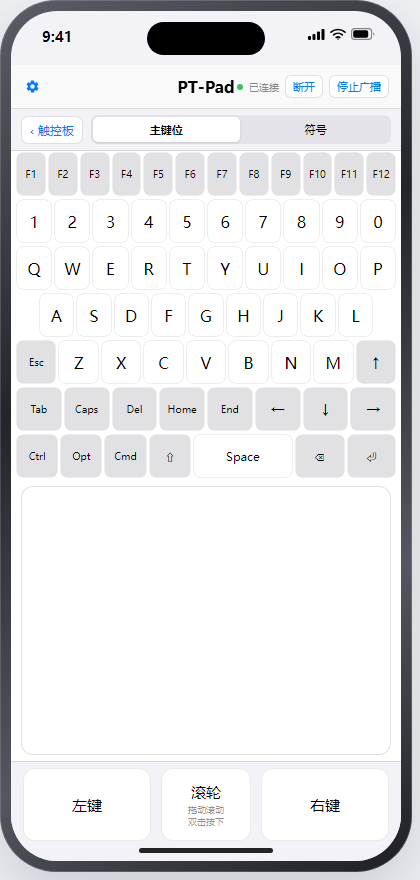
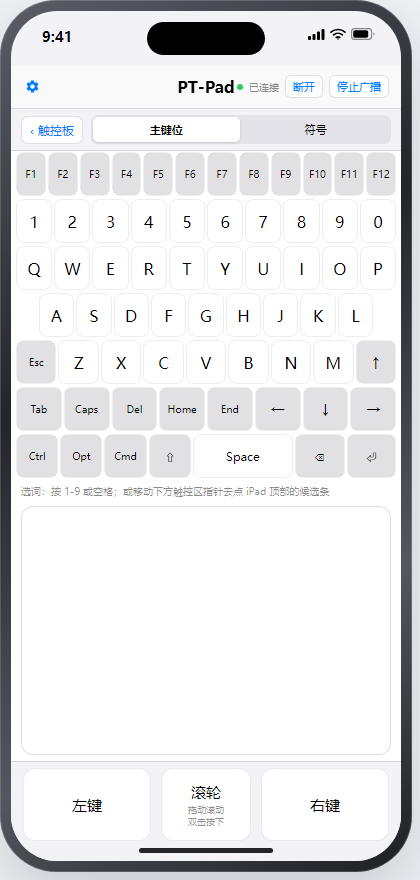
UI: IME candidate hint + hold 0.09s; disconnect shows switch-device guide

Changed region(s): [[0.031, 0.5523, 0.8048, 0.583]]

diff --git a/preview/ui-preview.html b/preview/ui-preview.html
@@ -260,6 +260,8 @@ input[type=range] { width:100%; accent-color:var(--accent); margin:10px 0 2px; c
 .kb-rows.compact .kb-key.arrow { font-size:14px; }
 /* 键区再往上挪：顶部内边距 6px → 2px，工具条下方已无空状态条 */
 .kb-rows.top { padding:2px 6px 0; }
+/* 极简选词提示：单行、次级色，不挤占键区 */
+.kb-imehint { font-size:10px; color:var(--ios-2); line-height:1.4; padding:2px 10px 4px; }
 .kb-minipad {
   flex:1 1 auto; min-height:0; box-sizing:border-box;
   padding:4px 10px 6px;
@@ -383,20 +385,22 @@ body.shot .phone { margin:0; }
             <tr><td>12</td><td>设置：指针速度 0.4~3.5，默认 1.4×（连接后从这里调）</td><td>ContentView.swift:201-215</td></tr>
             <tr><td>13</td><td>设置：滚动速度 0.3~3.0，默认 1.0× / 自然滚动开关（默认关 = 上滑滚轮下滑，连接后从这里调）</td><td>ContentView.swift:217-232</td></tr>
             <tr><td>14</td><td>设置：按键说明五行（新增全键盘、组合键两行）</td><td>ContentView.swift:234-240</td></tr>
-            <tr><td>15</td><td>设置：关于四行（不再回显整机名）+ 底部三步改名说明</td><td>ContentView.swift:254-264</td></tr>
-            <tr><td>16</td><td>顶部「断开」按钮（仅已连接显示）：移除 GATT 服务并停止广播，可重新广播切换到 Windows / Mac</td><td>ContentView.swift:59</td></tr>
+            <tr><td>15</td><td>设置：切换设备分组（iPad 自动重连 / 切 Windows / 切 Android / 本 App）+ 关于四行（不再回显整机名）+ 底部三步改名说明</td><td>ContentView.swift:255-278</td></tr>
+            <tr><td>16</td><td>顶部「断开」按钮（仅已连接显示）：移除 GATT 服务并停止广播；断开后弹出「切换设备」指引（配对信息在主机侧，iPad 会自动回连）</td><td>ContentView.swift:513-525</td></tr>
             <tr><td>17</td><td>设置：「实验功能 · 全键盘与回桌面」分组（键鼠复合开关、三指上滑、全键盘、输入报告字节数、风险与回退说明）</td><td>ContentView.swift:242-252</td></tr>
             <tr><td>18</td><td>已连接触控区顶部切换栏：「触控板模式」+ 蓝色主按钮「全键盘」；键盘未就绪时多一行橙色提示</td><td>ContentView.swift:292-331</td></tr>
             <tr><td>19</td><td>全键盘顶部工具条：「‹ 触控板」返回按钮 + 主键位 / 符号 两页分段控件（功能页已并入主键位）+ 粘滞生效时右侧的极短徽标</td><td>KeyboardView.swift:242-282</td></tr>
             <tr><td>20</td><td>粘滞状态改为工具条内短徽标（⌃ ⇧ ⌥ ⌘ + 清除），不再单独占一行；默认完全不显示，Ctrl / Opt / Cmd / Shift 仍为一次性粘滞</td><td>KeyboardView.swift:262-276<br>KeyboardView.swift:287-303</td></tr>
             <tr><td>21</td><td>键帽区：主键位 7 行（F1~F12 + 数字 + QWERTY 三行 + 导航/方向键 + 控制行）、符号页 5 行，两页统一 42pt 键帽</td><td>KeyboardView.swift:127-190</td></tr>
-            <tr><td>22</td><td>HID 键码解析与发送：US ANSI 布局，符号自带 Shift；一次按键 = 按下 0.06 秒 + 连发空帧松键</td><td>KeyboardView.swift:11-75<br>HIDPeripheral.swift:552-584</td></tr>
+            <tr><td>22</td><td>HID 键码解析与发送：US ANSI 布局，符号自带 Shift；一次按键 = 按下 0.09 秒（延长以兼容 iPad 中文输入法选词）+ 连发空帧松键</td><td>KeyboardView.swift:11-75<br>HIDPeripheral.swift:552-584</td></tr>
             <tr><td>23</td><td>键盘不可用橙色警告（键鼠复合关闭 / Boot Protocol / 未订阅 2A4D 时显示，属于条件错误提示，予以保留）</td><td>KeyboardView.swift:305-319</td></tr>
             <tr><td>24</td><td>主键位第 5 行：Esc 贴 Z 左侧（键区左边缘）、↑ 贴 M 右侧（键区右边缘）；第 6 行剩 Tab / Caps / Del / Home / End / ← / ↓ / →</td><td>KeyboardView.swift:164-190</td></tr>
             <tr><td>25</td><td>键区整体上移；下方小触控区吃掉键区以下全部空间、紧贴键区，复用 TrackpadSurface（compact）且不显示提示文字</td><td>KeyboardView.swift:205-228<br>KeyboardView.swift:232-238<br>TrackpadSurface.swift:72-88</td></tr>
             <tr><td>26</td><td>底部三键高度 116pt → 76pt；键盘页上下四处说明文字删除（粘滞长句、小触控区标题、触控区内提示、底部 footer）</td><td>ContentView.swift:363-377<br>KeyboardView.swift:205-228<br>TrackpadSurface.swift:72-88</td></tr>
             <tr><td>27</td><td>键区再往上挪一点点：删掉工具条下方 24pt 空状态条，键区顶部间距 8pt → 2pt，小触控区顶部 6pt → 4pt；省下约 30pt 全部给小触控区，键盘页切页／粘滞时不再有垂直跳动</td><td>KeyboardView.swift:205-228<br>KeyboardView.swift:242-282<br>KeyboardView.swift:232-238</td></tr>
             <tr><td>28</td><td>引导页三张卡片统一显式通栏：状态卡片 / 指针与滚动 / 连接日志各加 maxWidth 无限宽约束；日志内层 VStack、ScrollView 也撑满。初始只有一行短日志时不再缩成窄卡片并居中</td><td>ContentView.swift:120-121<br>ContentView.swift:153<br>ContentView.swift:172-177</td></tr>
+            <tr><td>29</td><td>全键盘页新增极简选词提示（单行、次级色）：按 1-9 或空格选词，或移动下方小触控区指针去点 iPad 顶部候选条；键帽按住时长 60ms → 90ms 以兼容中文输入法组合态</td><td>KeyboardView.swift:244-252<br>HIDPeripheral.swift:579</td></tr>
+            <tr><td>30</td><td>断开后弹「切换设备」指引：要连 Windows / Android 须先在 iPad 蓝牙里「忽略此设备」，否则 iPad 已配对会自动抢连；设置新增「切换设备」分组说明（Android 支持因机型而异，Win+D / F11 回桌面）</td><td>ContentView.swift:76<br>ContentView.swift:513-525<br>ContentView.swift:255-278</td></tr>
           </tbody>
         </table>
       </div>
@@ -724,6 +728,7 @@ body.shot .phone { margin:0; }
         "<div class=\"kb-seg\">" + seg + "</div>" + badge +
       "</div>" + warn +
       "<div class=\"kb-rows top" + (compact ? " compact" : "") + "\">" + rows + "</div>" +
+      "<div class=\"kb-imehint\" data-code=\"KeyboardView.swift:244-252\">选词：按 1-9 或空格；或移动下方触控区指针去点 iPad 顶部的候选条</div>" +
       miniPadHTML() +
       "</div>";
   }
@@ -765,7 +770,15 @@ body.shot .phone { margin:0; }
         row("输入报告", s.compositeDevice ? "12 字节（鼠标 4 + 键盘 8）" : "4 字节（纯鼠标）") +
       "</div>" +
       "<div class=\"form-footer\" data-code=\"ContentView.swift:250-252\">开启后本设备同时声明为鼠标和键盘，全键盘与三指上滑都依赖这个开关。iPad 可能弹出键盘配对验证，也可能拒绝接管整个设备导致鼠标失效。切换开关会自动断开并移除 GATT 服务：请在 iPad 蓝牙里「忽略此设备」，回到主页面点「开始广播」，再重新配对。若指针或点击失效，关掉本开关、同样忽略设备重新配对即可回到纯鼠标，不需要重装 App。Command + H 只对 iPadOS 有效；Windows 显示桌面是 Win + D，macOS 是 F11。</div>" +
-      "<div class=\"sec-head\" data-code=\"ContentView.swift:254\">关于</div>" +
+      "<div class=\"sec-head\" data-code=\"ContentView.swift:255\">切换设备</div>" +
+      "<div class=\"group\" data-code=\"ContentView.swift:255-264\">" +
+        row("iPad 自动重连", "已配对会主动回连") +
+        row("切到 Windows", "iPad 忽略本设备 → 配对 PT-Pad") +
+        row("切到 Android", "同样先忽略本设备再配对") +
+        row("本 App", "断开后点「开始广播」") +
+      "</div>" +
+      "<div class=\"form-footer\" data-code=\"ContentView.swift:255-264\">蓝牙 HID 的配对信息存在主机侧：本 App 作为外设无法远程解除 iPad 的配对。要连 Windows / Android，请先在 iPad 蓝牙里「忽略此设备」，否则它会因已配对自动抢连。Android 对 BLE HID 的支持因机型而异，部分旧机型可能无法识别；Windows 回桌面是 Win + D，本 App 的三指上滑（Command + H）只对 iPadOS 有效。</div>" +
+      "<div class=\"sec-head\" data-code=\"ContentView.swift:266\">关于</div>" +
       "<div class=\"group\" data-code=\"ContentView.swift:254-261\">" +
         row("广播名称", "PT-Pad") +
         row("iPad 显示名称", s.displayName) +
@@ -924,7 +937,12 @@ body.shot .phone { margin:0; }
       s.sticky = 0;
       log("主动断开：停止广播并移除 GATT 服务");
       log("点「开始广播」重建服务后，Windows / Mac 等主机即可发现");
+      log("若 iPad 仍在附近且保留配对，可能自动重连；必要时先在 iPad 蓝牙里忽略此设备");
       render();
+      // 预览复刻真机的「切换设备」指引
+      setTimeout(function () {
+        alert("已断开\n\n要连接到其他设备（Windows / Android）：\n\n1. 在刚断开的设备（如 iPad）蓝牙设置里「忽略此设备」，否则它会因已配对而自动抢连。\n2. 打开目标设备蓝牙，搜索并配对 PT-Pad。\n3. 回到本 App 点右上角「开始广播」。\n\n提示：三指上滑（Command + H）只对 iPadOS 有效；Windows 回桌面用 Win + D，macOS 用 F11。");
+      }, 60);
     }
     else if (act === "toggle") {
       s.naturalScrolling = !s.naturalScrolling;

diff --git a/PocketTrackpad/ContentView.swift b/PocketTrackpad/ContentView.swift
@@ -7,6 +7,8 @@ struct ContentView: View {
     @State private var showSettings = false
     /// true = 全键盘，false = 触控板。只在已连接时生效，断开自动回到触控板。
     @State private var showKeyboard = false
+    /// 断开后弹出「切换设备」指引（配对信息在主机侧，iPad 会自动回连）。
+    @State private var showSwitchHelp = false
 
     /// 主机订阅了 Input Report 才算真正连上；仅广播中不算连接。
     private var connected: Bool { hid.subscribers > 0 }
@@ -56,7 +58,7 @@ struct ContentView: View {
                         Text("已连接")
                             .font(.caption2)
                             .foregroundStyle(.secondary)
-                        DisconnectButton()
+                        DisconnectButton(onDisconnected: { showSwitchHelp = true })
                     }
                     Button {
                         if hid.isAdvertising { hid.stopAdvertising() } else { hid.start() }
@@ -70,6 +72,11 @@ struct ContentView: View {
             }
             .navigationDestination(isPresented: $showSettings) {
                 SettingsView()
+            }
+            .alert("已断开", isPresented: $showSwitchHelp) {
+                Button("知道了", role: .cancel) {}
+            } message: {
+                Text("要连接到其他设备（Windows / Android）：\n\n1. 在刚断开的设备（如 iPad）蓝牙设置里「忽略此设备」，否则它会因已配对而自动抢连。\n2. 打开目标设备蓝牙，搜索并配对 PT-Pad。\n3. 回到本 App 点右上角「开始广播」。\n\n提示：三指上滑（Command + H）只对 iPadOS 有效；Windows 回桌面用 Win + D，macOS 用 F11。")
             }
         }
     }
@@ -249,6 +256,18 @@ struct SettingsView: View {
                 Text("实验功能 · 全键盘与回桌面")
             } footer: {
                 Text("开启后本设备同时声明为鼠标和键盘，全键盘与三指上滑都依赖这个开关。iPad 可能弹出键盘配对验证，也可能拒绝接管整个设备导致鼠标失效。切换开关会自动断开并移除 GATT 服务：请在 iPad 蓝牙里「忽略此设备」，回到主页面点「开始广播」，再重新配对。若指针或点击失效，关掉本开关、同样忽略设备重新配对即可回到纯鼠标，不需要重装 App。Command + H 只对 iPadOS 有效；Windows 显示桌面是 Win + D，macOS 是 F11。")
+                    .font(.caption)
+            }
+
+            Section {
+                LabeledRow(title: "iPad 自动重连", detail: "已配对会主动回连")
+                LabeledRow(title: "切到 Windows", detail: "iPad 忽略本设备 → 配对 PT-Pad")
+                LabeledRow(title: "切到 Android", detail: "同样先忽略本设备再配对")
+                LabeledRow(title: "本 App", detail: "断开后点「开始广播」")
+            } header: {
+                Text("切换设备")
+            } footer: {
+                Text("蓝牙 HID 的配对信息存在主机侧：本 App 作为外设无法远程解除 iPad 的配对。要连 Windows / Android，请先在 iPad 蓝牙里「忽略此设备」，否则它会因已配对自动抢连。Android 对 BLE HID 的支持因机型而异，部分旧机型可能无法识别；Windows 回桌面是 Win + D，本 App 的三指上滑（Command + H）只对 iPadOS 有效。")
                     .font(.caption)
             }
 
@@ -490,15 +509,21 @@ private struct WheelButton: View {
 
 /// 仅在已连接时出现在顶部工具栏。断开后保持停止广播，让用户决定何时重新广播，
 /// 避免 iPad 立刻自动重连；点「开始广播」即可让 Windows / Mac 等其他主机发现。
+/// onDisconnected 由父视图传入，用来弹出「切换设备」指引（alert 必须挂在常驻视图上，
+/// 因为本按钮在断开后随 toolbar 一起被移除）。
 private struct DisconnectButton: View {
 
     @EnvironmentObject private var hid: HIDPeripheral
+    var onDisconnected: () -> Void
 
     var body: some View {
-        Button("断开") { hid.disconnect() }
-            .font(.caption2)
-            .buttonStyle(.bordered)
-            .controlSize(.mini)
-            .accessibilityLabel("断开当前连接")
+        Button("断开") {
+            hid.disconnect()
+            onDisconnected()
+        }
+        .font(.caption2)
+        .buttonStyle(.bordered)
+        .controlSize(.mini)
+        .accessibilityLabel("断开当前连接")
     }
 }

diff --git a/PocketTrackpad/KeyboardView.swift b/PocketTrackpad/KeyboardView.swift
@@ -221,6 +221,7 @@ struct KeyboardPanel: View {
             }
             .padding(.horizontal, 6)
             .padding(.top, 2)
+            imeHint
             miniTrackpad
         }
         .frame(maxWidth: .infinity, maxHeight: .infinity)
@@ -235,6 +236,18 @@ struct KeyboardPanel: View {
             .padding(.horizontal, 10)
             .padding(.top, 4)
             .padding(.bottom, 6)
+    }
+
+    /// 极简选词提示：数字键 / 空格是最直接的选词方式，备选是用下方小触控区
+    /// 把 iPad 系统指针移到屏幕顶部的候选条上点选（不受输入法键盘处理差异影响）。
+    /// 仅一行、次级色，不打断键区紧凑布局。
+    private var imeHint: some View {
+        Text("选词：按 1-9 或空格；或移动下方触控区指针去点 iPad 顶部的候选条")
+            .font(.caption2)
+            .foregroundStyle(.secondary)
+            .frame(maxWidth: .infinity, alignment: .leading)
+            .padding(.horizontal, 10)
+            .padding(.top, 2)
     }
 
     // MARK: 顶部工具条

diff --git a/PocketTrackpad/HIDPeripheral.swift b/PocketTrackpad/HIDPeripheral.swift
@@ -574,7 +574,9 @@ final class HIDPeripheral: NSObject, ObservableObject, CBPeripheralManagerDelega
         }
         pendingModifier = modifiers
         pendingKeycode = keycode
-        keyReleaseAt = Date().addingTimeInterval(0.06)
+        // 延长按住到 90ms：iPad 中文输入法在拼音组合态下对选词按键（数字 / 空格）
+        // 的采样更挑剔，过短的按下时间可能让 IME 漏掉该次击键，导致选词无反应。
+        keyReleaseAt = Date().addingTimeInterval(0.09)
         emptyKeyFramesLeft = 0
         let modHex = String(modifiers, radix: 16, uppercase: true)
         let keyHex = String(keycode, radix: 16, uppercase: true)

diff --git a/README.md b/README.md
@@ -1252,3 +1252,84 @@ Esc / ↑ 位置、GATT 服务、广播 UUID、三指上滑 80pt 阈值、所有
 | `preview/ui-preview.html` | `.card` / `.diag` / `.logbox` 显式通栏；元素清单与全部行号同步 |
 | `preview/shot-*.png` | 5 张状态截图重新生成 |
 | `README.md` | 第十八节补注，新增本节 |
+
+## 二十九、iPad 中文拼音选词（本轮新增）
+
+用户反馈：用本 App 当键盘，在 iPad 系统自带中文拼音输入法上能打字，但打好的中文字词
+**没法选择**（候选词选不中）。
+
+### 原因
+
+本 App 的键盘走标准 USB HID 键盘报告（12 字节复合报告的键盘部分：`modifier + reserved +
+6 键码`）。iPad 能正常接收字母/数字/空格说明键盘报告是被正确解析的——字母能打出来就是证据。
+选词按键在 HID 层没有任何特殊处理，和字母键走同一条 `sendKey` 链路，因此数字键 `1-9`、
+空格、回车在 HID 层都能正确送达 iPad。
+
+iPadOS 拼音输入法对选词有两套可靠机制，之前界面没告诉用户，导致「看起来选不了」：
+
+1. **硬件键盘选词**：拼音组合态下按数字键 `1-9` 直接选对应候选词；按 `空格` 选第一个候选；
+   按 `↓` 展开候选列表后用 `←/→` 移动高亮、`⏎(回车)` 确认。
+2. **点选候选条**：本 App 在键盘页下方保留了一块小触控区（复用 `TrackpadSurface`），
+   它控制的就是 iPad 系统指针。把指针移到 iPad 屏幕**顶部/底部的候选条**上，用左键点一下
+   即可选词。这条路完全绕开输入法的键盘处理差异，任何机型都稳。
+
+另外，原 `sendKey` 把按键按住 60ms 就松键。iPad 中文输入法在组合态下对选词按键的采样更挑剔，
+过短的按下时间可能让 IME 漏掉该次击键。
+
+### 改动
+
+| 位置 | 处理 |
+| --- | --- |
+| `HIDPeripheral.swift` | `sendKey` 的 `keyReleaseAt` 由 0.06s 延长到 0.09s，确保 IME 能稳定收到选词按键 |
+| `KeyboardView.swift` | 键盘页键区与小触控区之间新增一行极简选词提示（单行、次级色）：`选词：按 1-9 或空格；或移动下方触控区指针去点 iPad 顶部的候选条` |
+| `preview/ui-preview.html` | 键盘渲染加 `.kb-imehint` 一行；元素清单新增第 29 项 |
+
+蓝牙链路、HID 报告格式、键码表、底部三键、小触控区手势一律未动。
+
+### 真机验证（待用户反馈）
+
+重点看：① 拼音组合态下按 `1`/`2`/`3` 能否选词、按空格能否确认首词；② 键盘页下方那行
+选词提示是否显示且没挤乱布局；③ 用下方小触控区把指针移到 iPad 候选条、左键点选是否可用。
+
+## 三十、断开后切换其他设备（Windows / Android）（本轮新增）
+
+用户反馈：按「断开」后「重新连接」总是直接连回自己的 iPad，想连 Windows PC 或安卓平板
+连不上。
+
+### 原因（BLE HID 的固有天花板）
+
+蓝牙 HID 的**配对信息（绑定/LTK）存在主机侧**。一旦 iPad 与本 App 配对，iPad 会**主动回连**
+已绑定的 HID 外设——这个重连由 iPad（中央设备）发起，本 App 作为外设（周边设备）无能为力：
+CoreBluetooth 既没有「断开指定中央」的公开接口，也不提供删除对端配对的方法。所以只要 iPad
+仍保留配对，本 App 一广播，iPad 就会抢先连上，Windows/Android 根本没机会。
+
+结论：**要切到别的设备，必须先在 iPad 蓝牙里「忽略此设备」**，这是 iOS 限制，不是 App bug。
+本 App 侧能做的只是「断开后保持停止广播、让用户决定何时重新广播」，避免 iPad 立刻自动回连。
+
+### 改动
+
+| 位置 | 处理 |
+| --- | --- |
+| `ContentView.swift` | 「断开」按钮点击后 `disconnect()`，再弹一次性「切换设备」指引：先在 iPad 蓝牙忽略本设备 → 目标设备搜索配对 PT-Pad → 回 App 点「开始广播」 |
+| `ContentView.swift` | 设置新增「切换设备」分组：iPad 自动重连 / 切到 Windows / 切到 Android / 本 App 操作，并注明 Android 对 BLE HID 支持因机型而异、Win+D / F11 回桌面 |
+| `disconnect()` | 行为不变（停广播 + 移除 GATT 服务 + 释放 manager），只是这次把切换指引补进了提示与弹窗 |
+| `preview/ui-preview.html` | 断开时复刻真机弹窗；设置加「切换设备」分组；元素清单新增第 30 项 |
+
+`disconnect()` 在 v0.0.7 起就是「停止广播 + 移除服务」的实现，本身不自动重连；
+之前日志里也写过「若 iPad 仍在附近且保留配对，可能自动重连」，只是用户没注意到，
+这次把它前置成断开后的弹窗和设置独立章节。
+
+### 真机验证（待用户反馈）
+
+重点看：① 断开后是否弹出切换指引；② 在 iPad 蓝牙「忽略此设备」后，本 App 重新广播，
+Windows/Android 能否搜索并配对 PT-Pad；③ 若 Android 旧机型仍不识别，确认是系统 BLE HID
+支持问题（非 App 缺陷）。
+
+| 文件 | 改动 |
+| --- | --- |
+| `ContentView.swift` | 断开弹窗 +「切换设备」设置分组；`DisconnectButton` 改为接收 `onDisconnected` 回调（alert 挂常驻视图，否则随 toolbar 一起被移除） |
+| `KeyboardView.swift` | 新增选词提示一行 |
+| `HIDPeripheral.swift` | 按键按住 0.06s → 0.09s |
+| `preview/ui-preview.html` | IME 提示、切换设备分组、断开弹窗复刻、元素清单 29/30 项 |
+| `preview/shot-3-settings.png` / `shot-4-keyboard.png` / `shot-5-keyboard-symbols.png` | 重新生成 |
+| `README.md` | 新增本节与第二十九节 |
